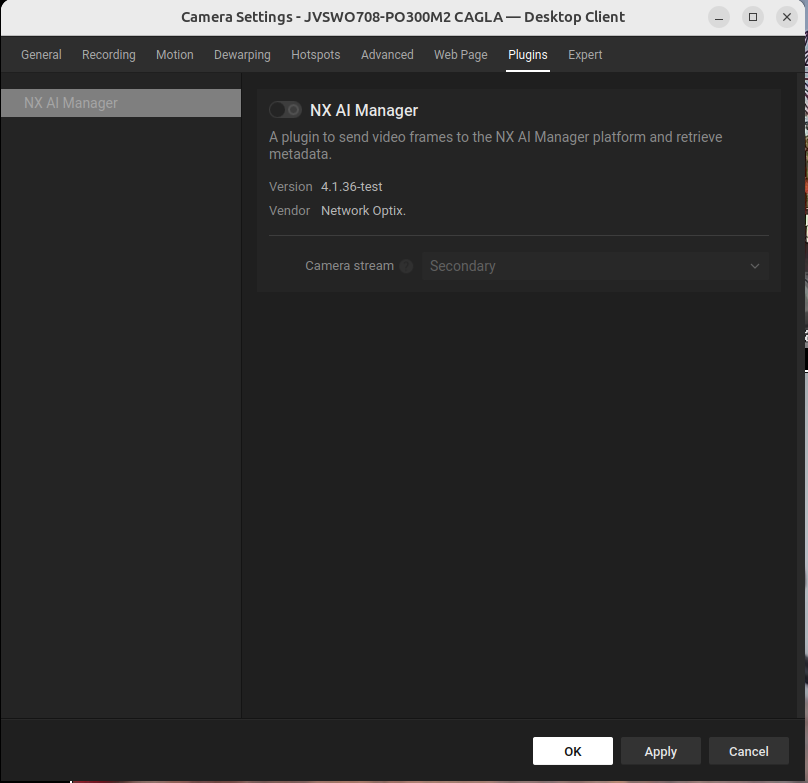
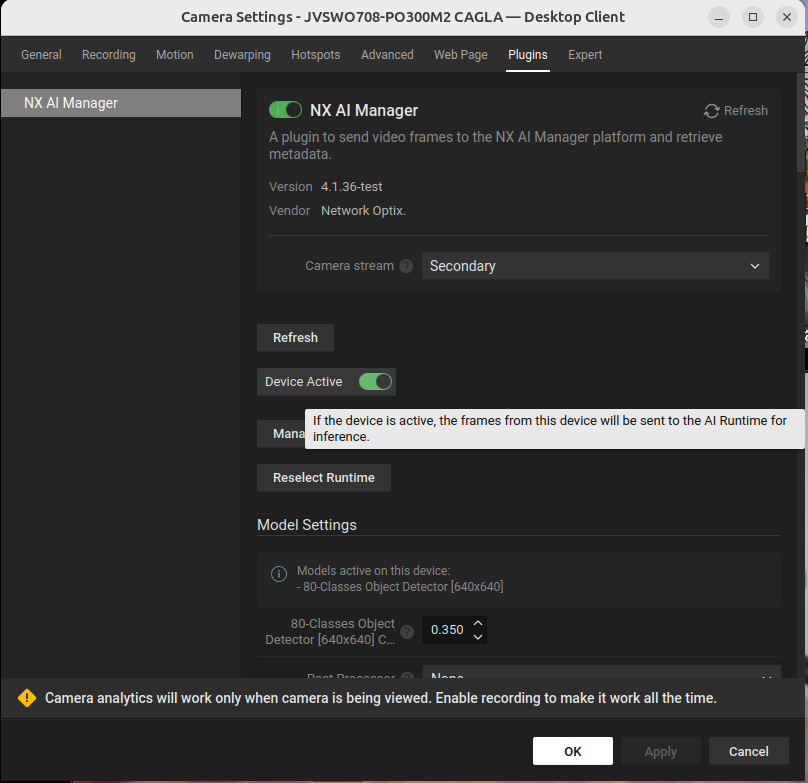
GITBOOK-102: No subject

diff --git a/nx-ai-cloud/use-your-model.md b/nx-ai-cloud/use-your-model.md
@@ -1,0 +1,50 @@
+---
+layout:
+  title:
+    visible: true
+  description:
+    visible: false
+  tableOfContents:
+    visible: true
+  outline:
+    visible: true
+  pagination:
+    visible: true
+---
+
+# Use your model
+
+After the model is uploaded the model is ready to be used on your devices. To use a model on your device follow the steps below.
+
+
+
+* Open the device settings in the NX Meta Client by right clicking on a device label and selecting the last option.
+
+<figure><img src="../.gitbook/assets/1 device settings.png" alt=""><figcaption></figcaption></figure>
+
+* Navigate to the plugin tab with the NX AI Manager plugin.
+* Activate the plugin and then the device if necessary.
+* You may need to click apply and refresh the tab.
+* By default a model will be active.
+
+<figure><img src="../.gitbook/assets/2 device plugin settings.png" alt=""><figcaption></figcaption></figure>
+
+* A popup window with the NX AI Manager Client will open on the device details page.
+* On this page you can switch the model by clicking the switch model button <img src="../.gitbook/assets/image (1).png" alt="" data-size="line">.
+
+<figure><img src="../.gitbook/assets/3 device model details.png" alt=""><figcaption></figcaption></figure>
+
+
+
+* You can then browse through the model library and select the uploaded model. (In this example a face locator model is used).
+
+<figure><img src="../.gitbook/assets/4 model selection.png" alt=""><figcaption></figcaption></figure>
+
+* The model will then be assigned and automatically downloaded to the server with the device.
+
+<div><figure><img src="../.gitbook/assets/5 model selection.png" alt="" width="375"><figcaption></figcaption></figure> <figure><img src="../.gitbook/assets/6 model selection complete.png" alt="" width="375"><figcaption></figcaption></figure></div>
+
+* After which the model is also visible on the plugin tab in the NX Meta Application (you might need to click refresh again for the updates to become visible).
+
+<figure><img src="../.gitbook/assets/7 model on device.png" alt=""><figcaption></figcaption></figure>
+

diff --git a/support-and-troubleshooting/troubleshooting/controlling-the-server-and-the-plugin.md b/support-and-troubleshooting/troubleshooting/controlling-the-server-and-the-plugin.md
@@ -50,9 +50,9 @@ sudo systemctl stop networkoptix-metavms-mediaserver.service
 
 To start the plugin the plugin needs to be enabled by toggling the switch next to the title and then also enabling the 'Device Active' toggle that will then appear.
 
-<figure><img src="../../.gitbook/assets/image (2).png" alt="" width="375"><figcaption><p>The popup window showing that the plugin is disabled for this device</p></figcaption></figure>
+<figure><img src="../../.gitbook/assets/image (2) (1).png" alt="" width="375"><figcaption><p>The popup window showing that the plugin is disabled for this device</p></figcaption></figure>
 
-<figure><img src="../../.gitbook/assets/image (1).png" alt="" width="375"><figcaption><p>The popup window showing that the plugin is enabled for this device, but the device is not active.</p></figcaption></figure>
+<figure><img src="../../.gitbook/assets/image (1) (1).png" alt="" width="375"><figcaption><p>The popup window showing that the plugin is enabled for this device, but the device is not active.</p></figcaption></figure>
 
 ## Stopping the plugin
 
@@ -60,4 +60,4 @@ Stopping the plugin when it is running can be done from within the Nx Client.
 
 To stop the plugin all devices on a server need to be disabled by switching the 'Device Active' toggle to off.
 
-<figure><img src="../../.gitbook/assets/image.png" alt="" width="375"><figcaption><p>The popup window showing that the plugin is enabled and the device is active.</p></figcaption></figure>
+<figure><img src="../../.gitbook/assets/image (2).png" alt="" width="375"><figcaption><p>The popup window showing that the plugin is enabled and the device is active.</p></figcaption></figure>

diff --git a/nx-ai-cloud/upload-your-model/README.md b/nx-ai-cloud/upload-your-model/README.md
@@ -12,18 +12,7 @@ Drag and drop your ONNX model into the drag and drop area, choose a name for you
 
 <figure><img src="../../.gitbook/assets/Screenshot from 2024-05-22 13-51-39.png" alt=""><figcaption></figcaption></figure>
 
-After the model is uploaded, a series of conversion blocks are ran to generate optimized model files for each supported target [AI accelerator](../../ai-accelerators-support/supported-ai-accelerators.md).
+After the model is uploaded, a series of conversions will be run to generate optimized model files for each supported target [AI accelerator](../../ai-accelerators-support/supported-ai-accelerators.md).
 
-A video from upload to model selection:
+When this is completed you will get an email and the model is [ready to be used](../use-your-model.md) on your devices.
 
-{% embed url="https://www.youtube.com/watch?v=DyNh9OrfdeU" %}
-
-Next, add a stream to one of the servers (for now, one camera per server):
-
-{% embed url="https://youtu.be/c2eTOTUdORM" %}
-
-Finally, assign your model to a camera:
-
-
-
-{% embed url="https://www.youtube.com/watch?v=dX4von9Any4" %}

diff --git a/SUMMARY.md b/SUMMARY.md
@@ -25,6 +25,7 @@
 * [Deployment and device management](nx-ai-cloud/deployment-and-device-management.md)
 * [Upload your model](nx-ai-cloud/upload-your-model/README.md)
   * [Normalization](nx-ai-cloud/upload-your-model/normalization.md)
+* [Use your model](nx-ai-cloud/use-your-model.md)
 * [API Documentation](nx-ai-cloud/api-documentation.md)
 
 ## SUPPORT & TROUBLESHOOTING
